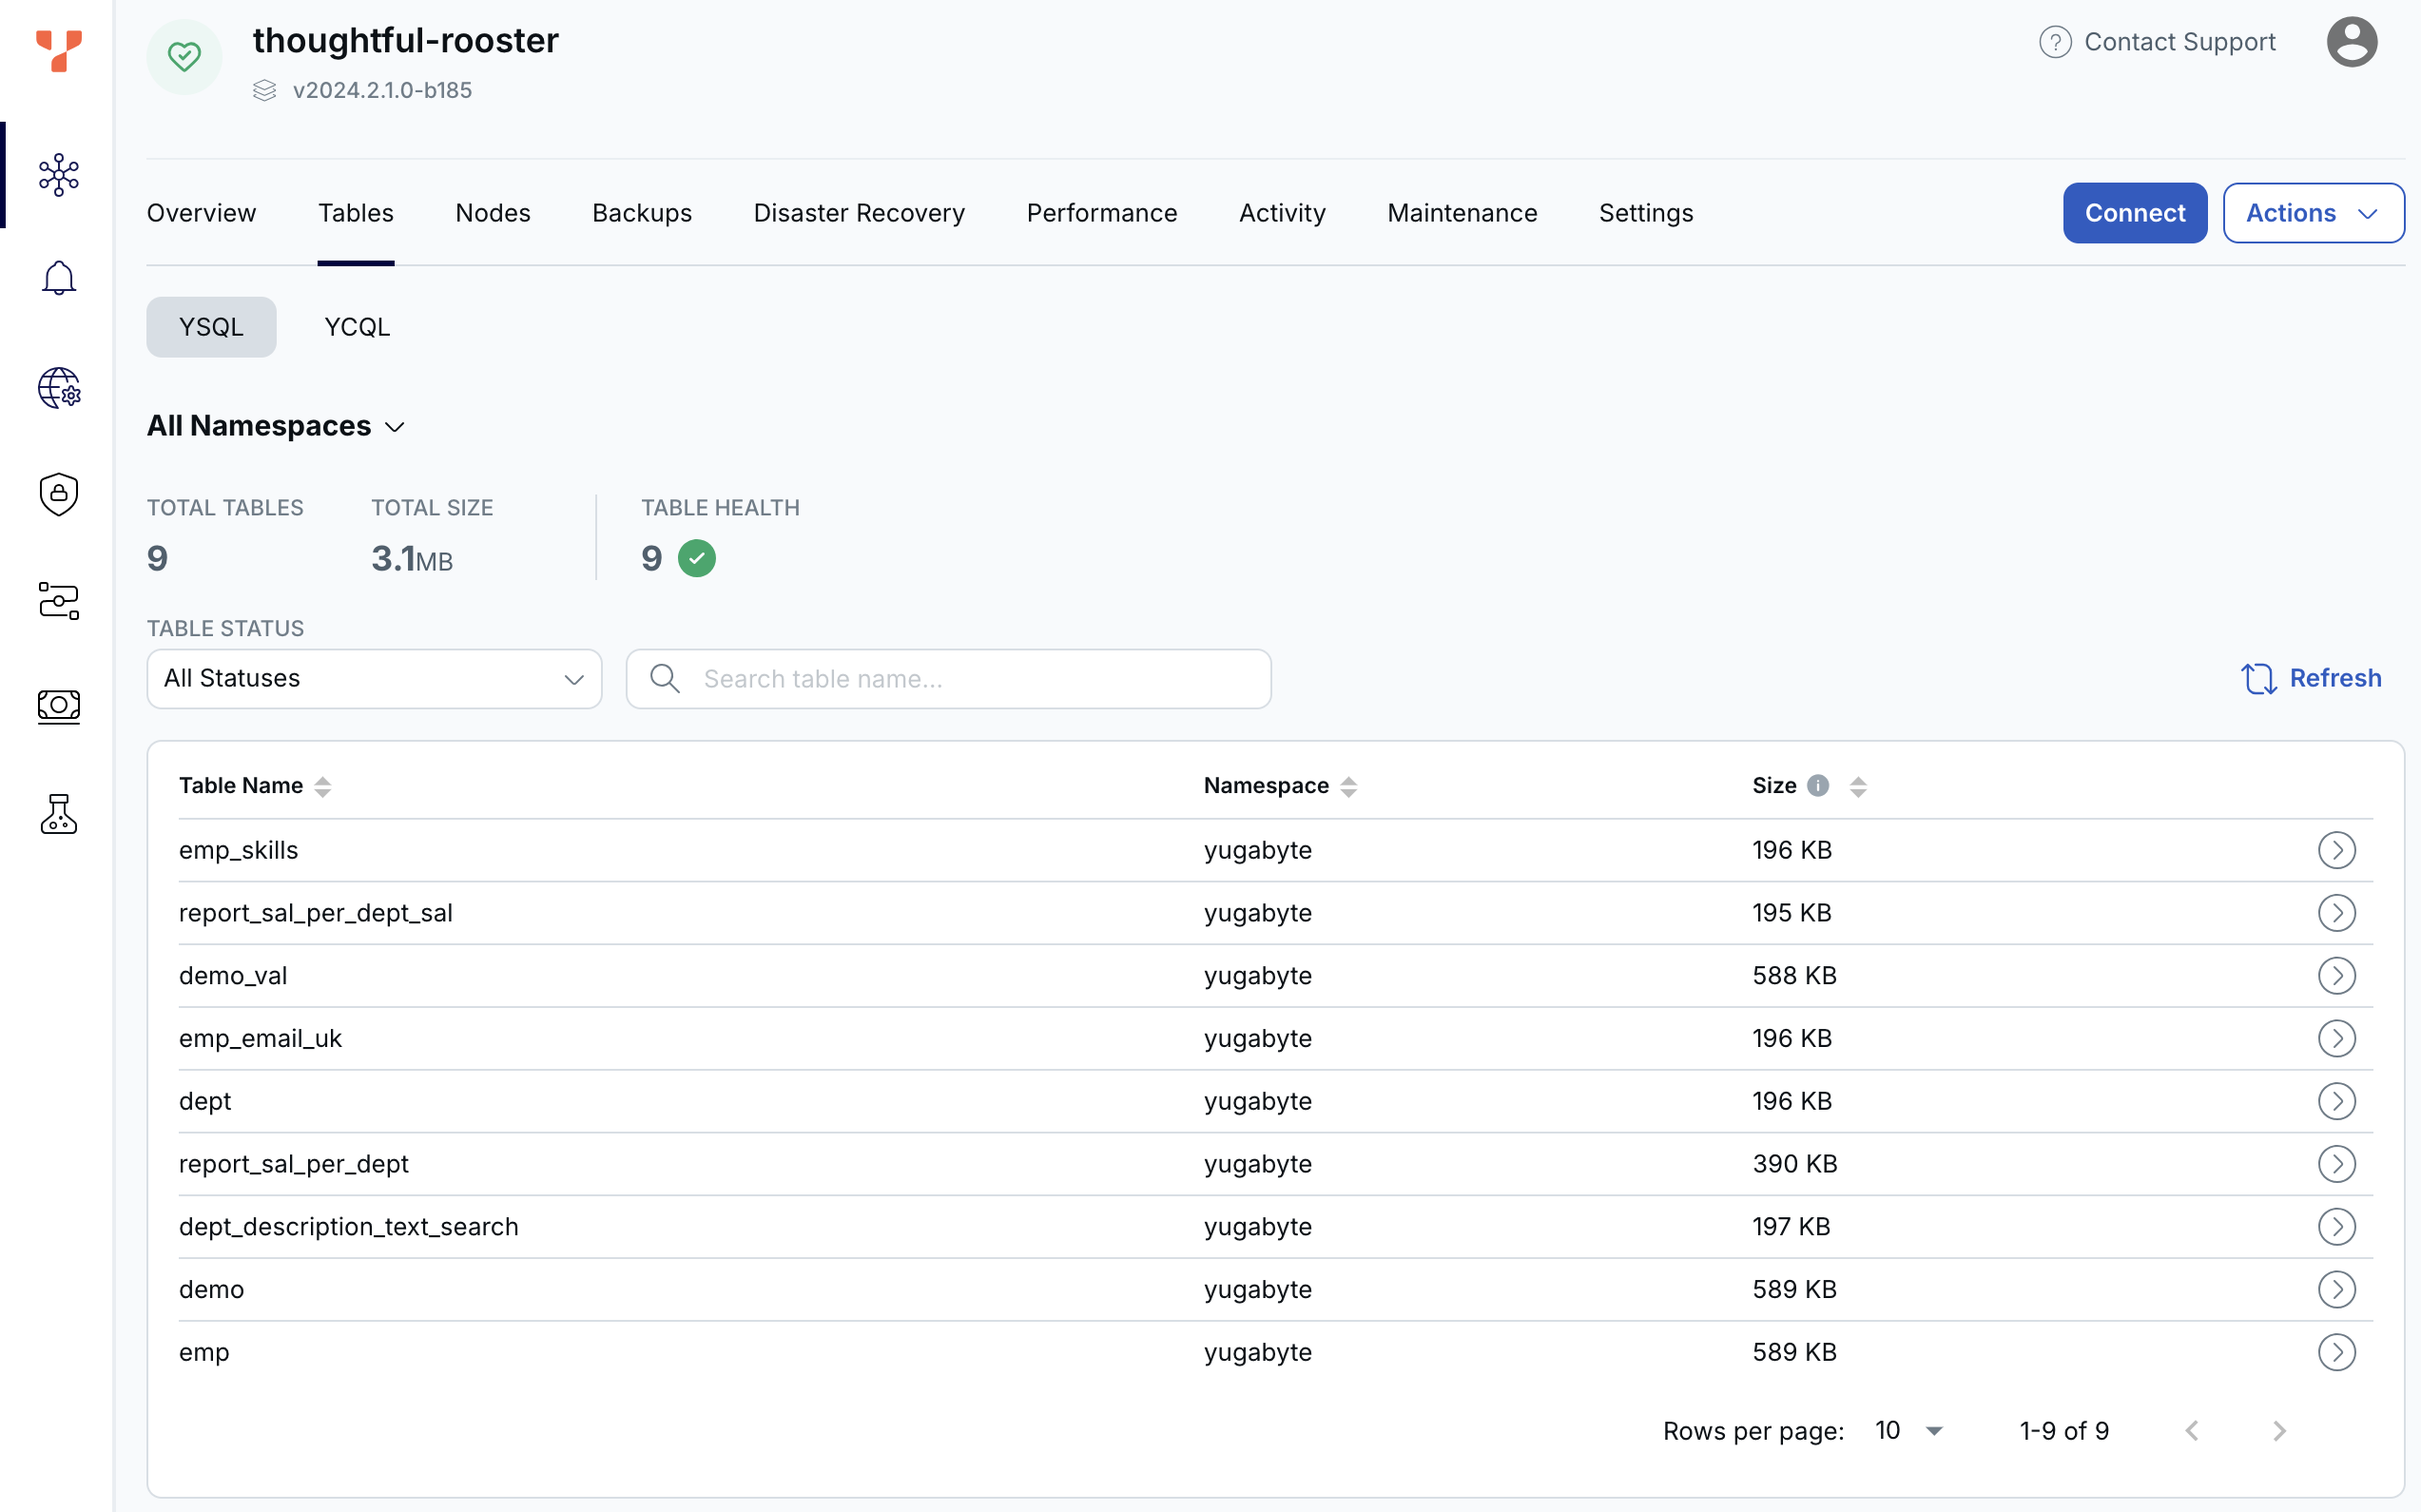
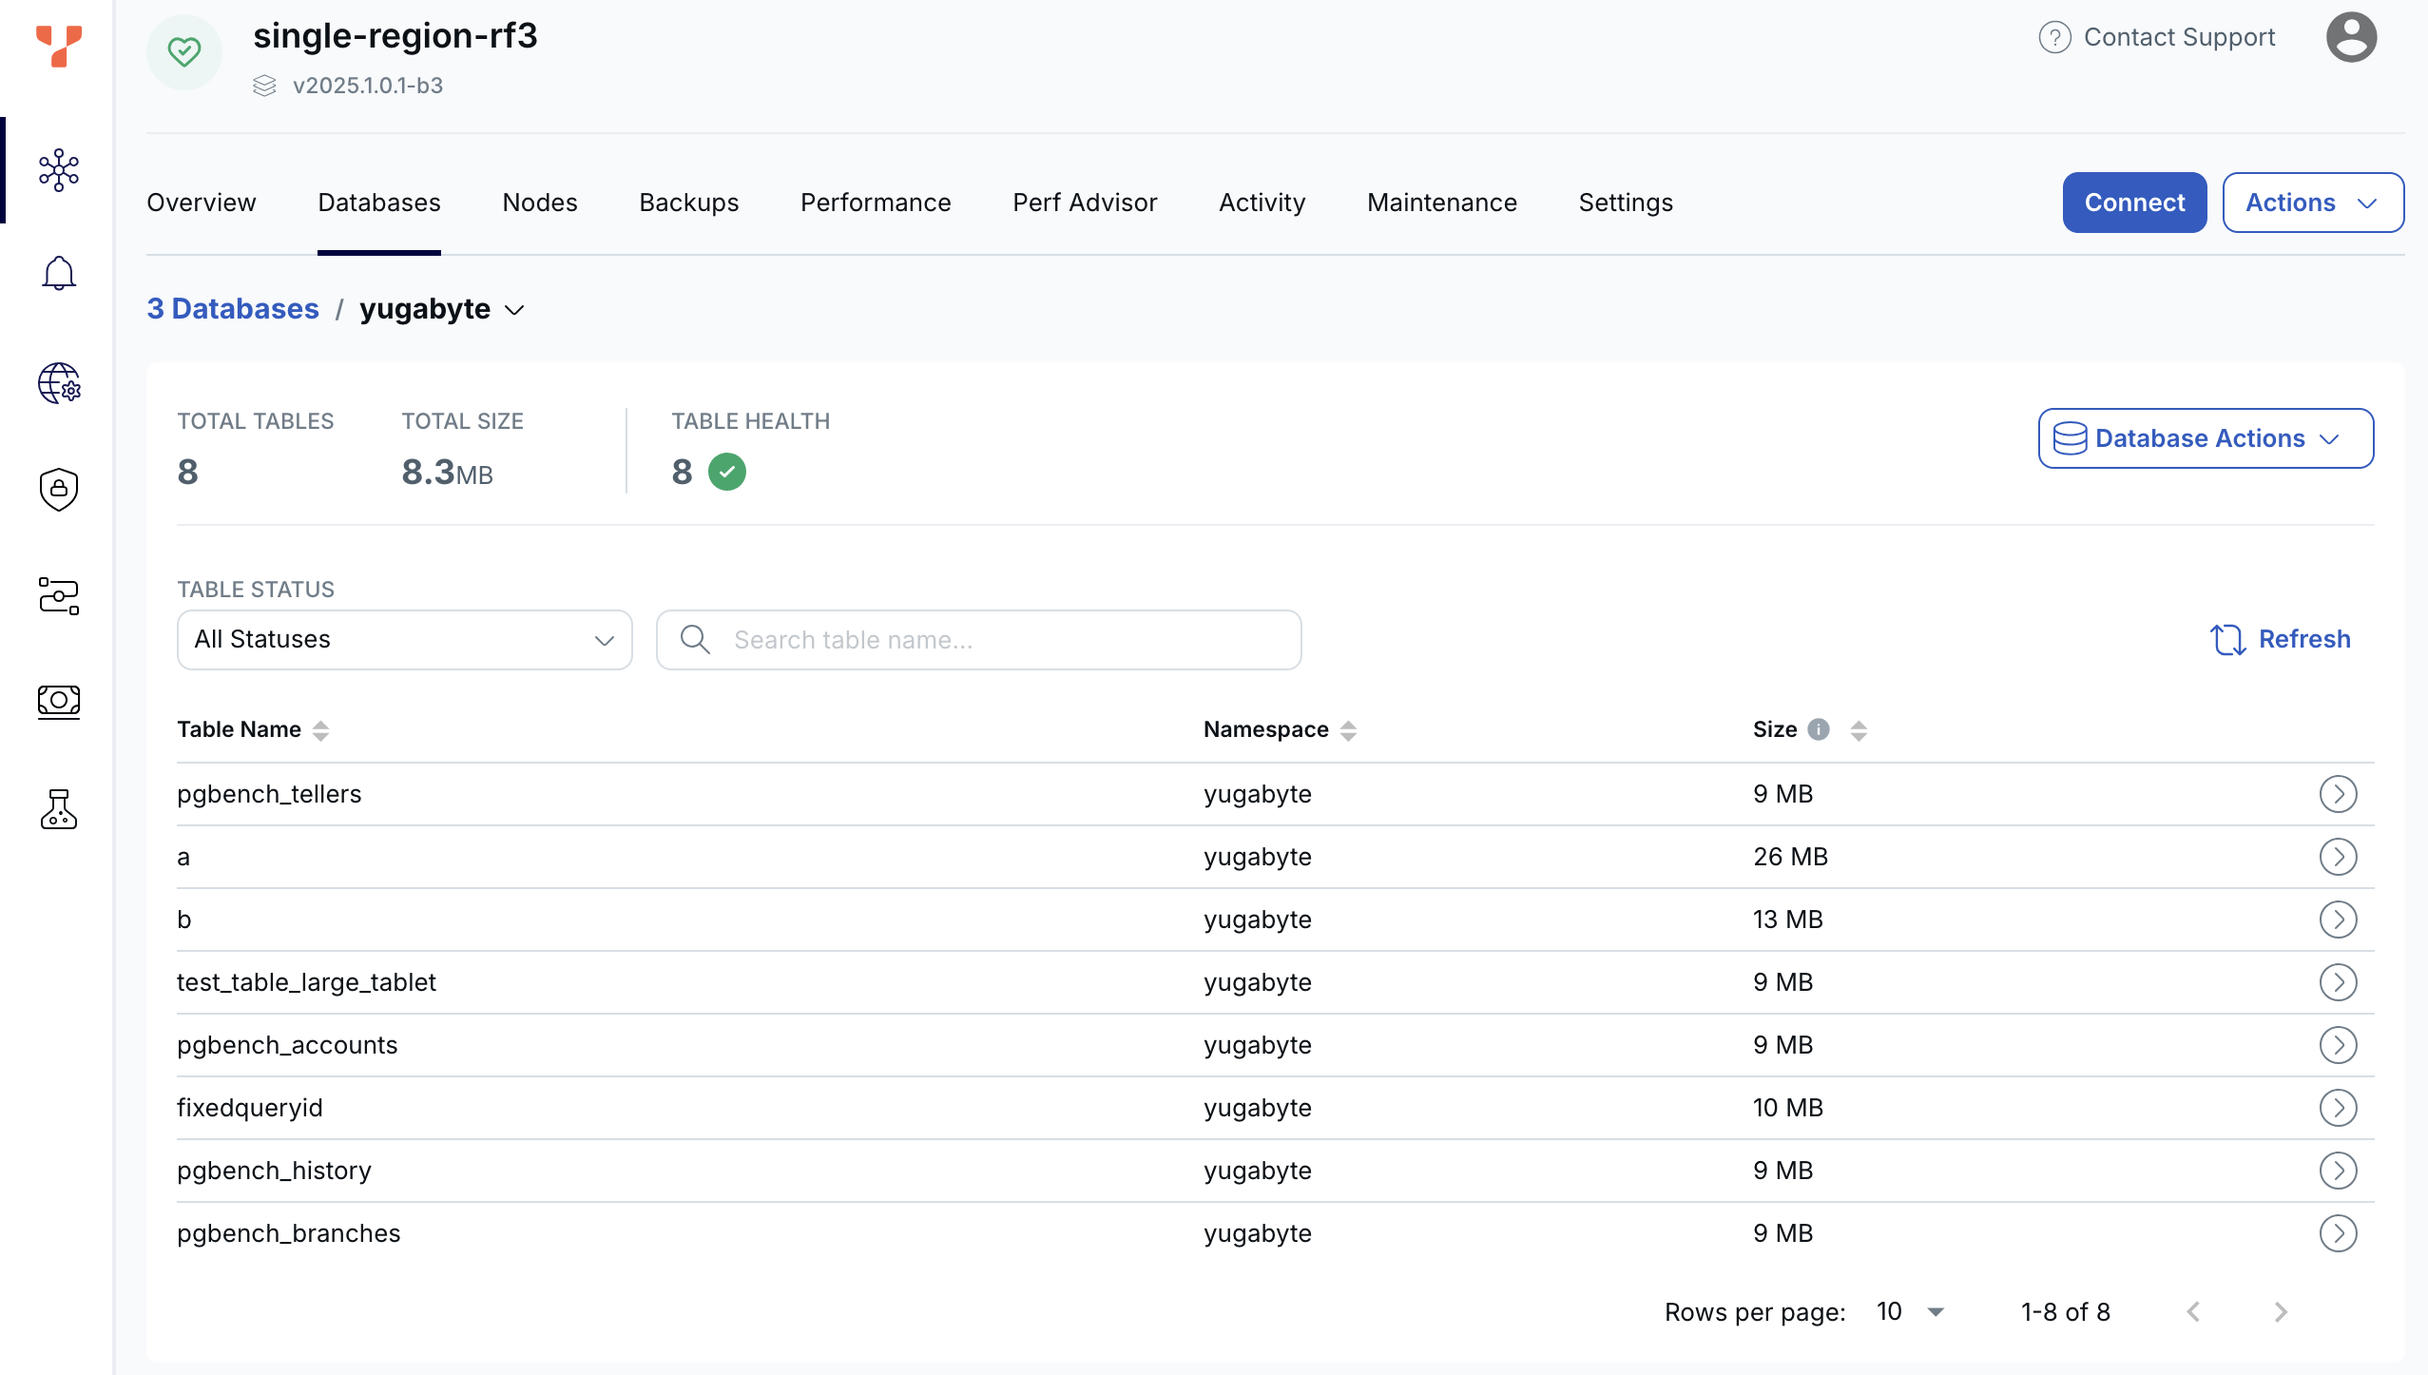
More edits

diff --git a/docs/content/stable/yugabyte-cloud/cloud-monitor/_index.md b/docs/content/stable/yugabyte-cloud/cloud-monitor/_index.md
@@ -34,9 +34,9 @@ Monitor database and cluster performance in real time. Access performance monito
 
 | Feature | Description |
 | :--- | :--- |
-| [Metrics](overview/) | The cluster **Overview** and **Performance Metrics** tabs show a variety of performance metrics charted over time. Use cluster performance metrics to ensure the cluster configuration matches its performance requirements, and [scale the cluster vertically or horizontally](../cloud-clusters/configure-clusters/) as your requirements change. |
+| [Metrics](overview/) | The cluster **Overview** and **Performance>Metrics** tabs show a variety of performance metrics charted over time. Use cluster performance metrics to ensure the cluster configuration matches its performance requirements, and [scale the cluster vertically or horizontally](../cloud-clusters/configure-clusters/) as your requirements change. |
+| [Slow queries](cloud-queries-slow/) | The cluster YSQL **Slow Queries** tab shows queries run on the cluster, sorted by running time. Evaluate the slowest running YSQL queries that have been run on the cluster. |
 | [Live queries](cloud-queries-live/) | The cluster **Live Queries** tab shows the queries that are currently "in-flight" on your cluster. |
-| [Slow queries](cloud-queries-slow/) | The cluster YSQL **Slow  Queries** tab shows queries run on the cluster, sorted by running time. Evaluate the slowest running YSQL queries that have been run on the cluster. |
 | [Insights](cloud-advisor/) | Scan clusters for performance optimizations, including index and schema changes, and detect potentially hot nodes. |
 
 ### Integrations
@@ -55,7 +55,7 @@ View cluster tables and their tablets, nodes and their status, and audit cluster
 
 | Feature | Description |
 | :--- | :--- |
-| [Tables and Tablets](monitor-tables/) | Use the cluster **Tables** tab to view the cluster tables and their sizes. Select a table to view its tablets. |
+| [Tables and Tablets](monitor-tables/) | Use the cluster **Databases** tab to view the cluster tables and their sizes. Select a table to view its tablets. |
 | [Nodes](monitor-nodes/) | Use the cluster **Nodes** tab to see the nodes in the cluster, their status, and a variety of performance metrics. |
 | [Activity log](monitor-activity/) | The cluster **Activity** tab provides a running audit of changes made to the cluster. |
 

diff --git a/docs/content/stable/yugabyte-cloud/cloud-monitor/monitor-tables.md b/docs/content/stable/yugabyte-cloud/cloud-monitor/monitor-tables.md
@@ -12,9 +12,11 @@ menu:
 type: docs
 ---
 
-Review cluster tables and their [tablets](../../../architecture/key-concepts/#tablet) on the **Tables** tab. The tab shows the number and size of your tables, as well as their health, including which tables are under-replicated.
+Review database tables and their [tablets](../../../architecture/key-concepts/#tablet) on the **Databases** tab. The tab lists the databases or keyspaces (depending on the selected API), with the number and size of the tables in each database.
 
-![Cluster Tables tab](/images/yb-cloud/monitor-tables.png)
+![Cluster Databases tab](/images/yb-cloud/monitor-tables.png)
+
+To view database tables, click the database whose tables you want to view in the list. The table view lists the tables and their size, as well as their health, including which tables are under-replicated.
 
 Note that table size is calculated from the sum of the write ahead logs (WAL) and sorted-string table (SST) files, across all nodes in the cluster. Changes to the database are first recorded to the WAL. Periodically, these logs are written to SST files for longer-term storage. During this process, the data is compressed. When this happens, you may observe a reduction in the total size of tables.
 

diff --git a/docs/content/stable/yugabyte-cloud/cloud-monitor/cloud-queries-live.md b/docs/content/stable/yugabyte-cloud/cloud-monitor/cloud-queries-live.md
@@ -8,7 +8,7 @@ menu:
   stable_yugabyte-cloud:
     identifier: cloud-queries-live
     parent: cloud-monitor
-    weight: 200
+    weight: 300
 type: docs
 ---
 

diff --git a/docs/content/stable/yugabyte-cloud/cloud-monitor/cloud-queries-slow.md b/docs/content/stable/yugabyte-cloud/cloud-monitor/cloud-queries-slow.md
@@ -8,7 +8,7 @@ menu:
   stable_yugabyte-cloud:
     identifier: cloud-queries-slow
     parent: cloud-monitor
-    weight: 300
+    weight: 200
 type: docs
 ---
 
